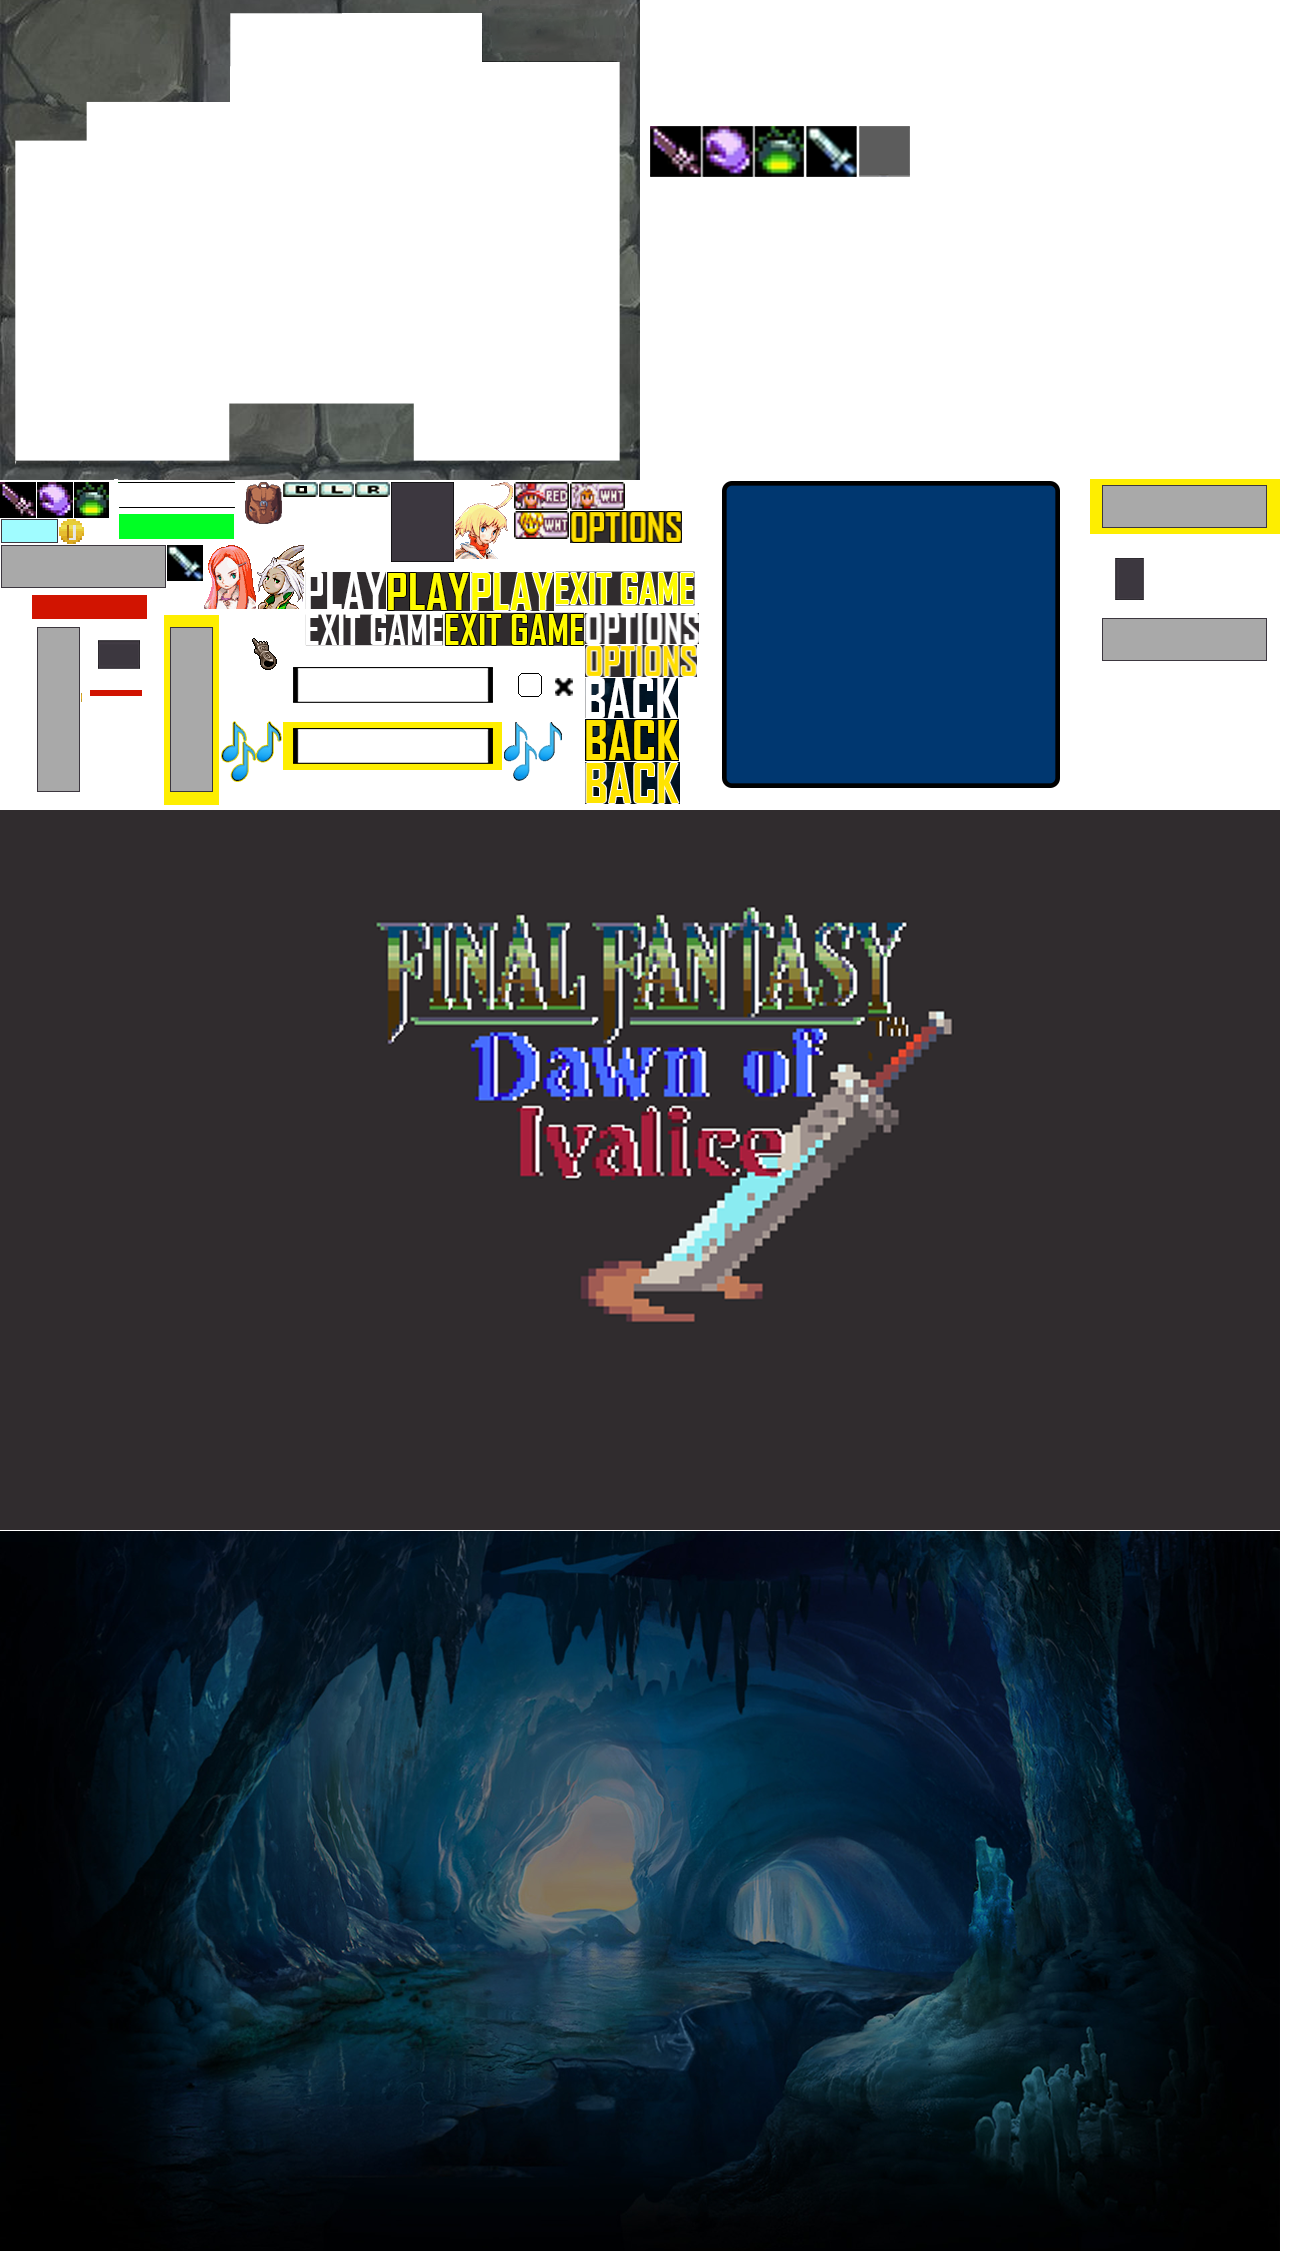
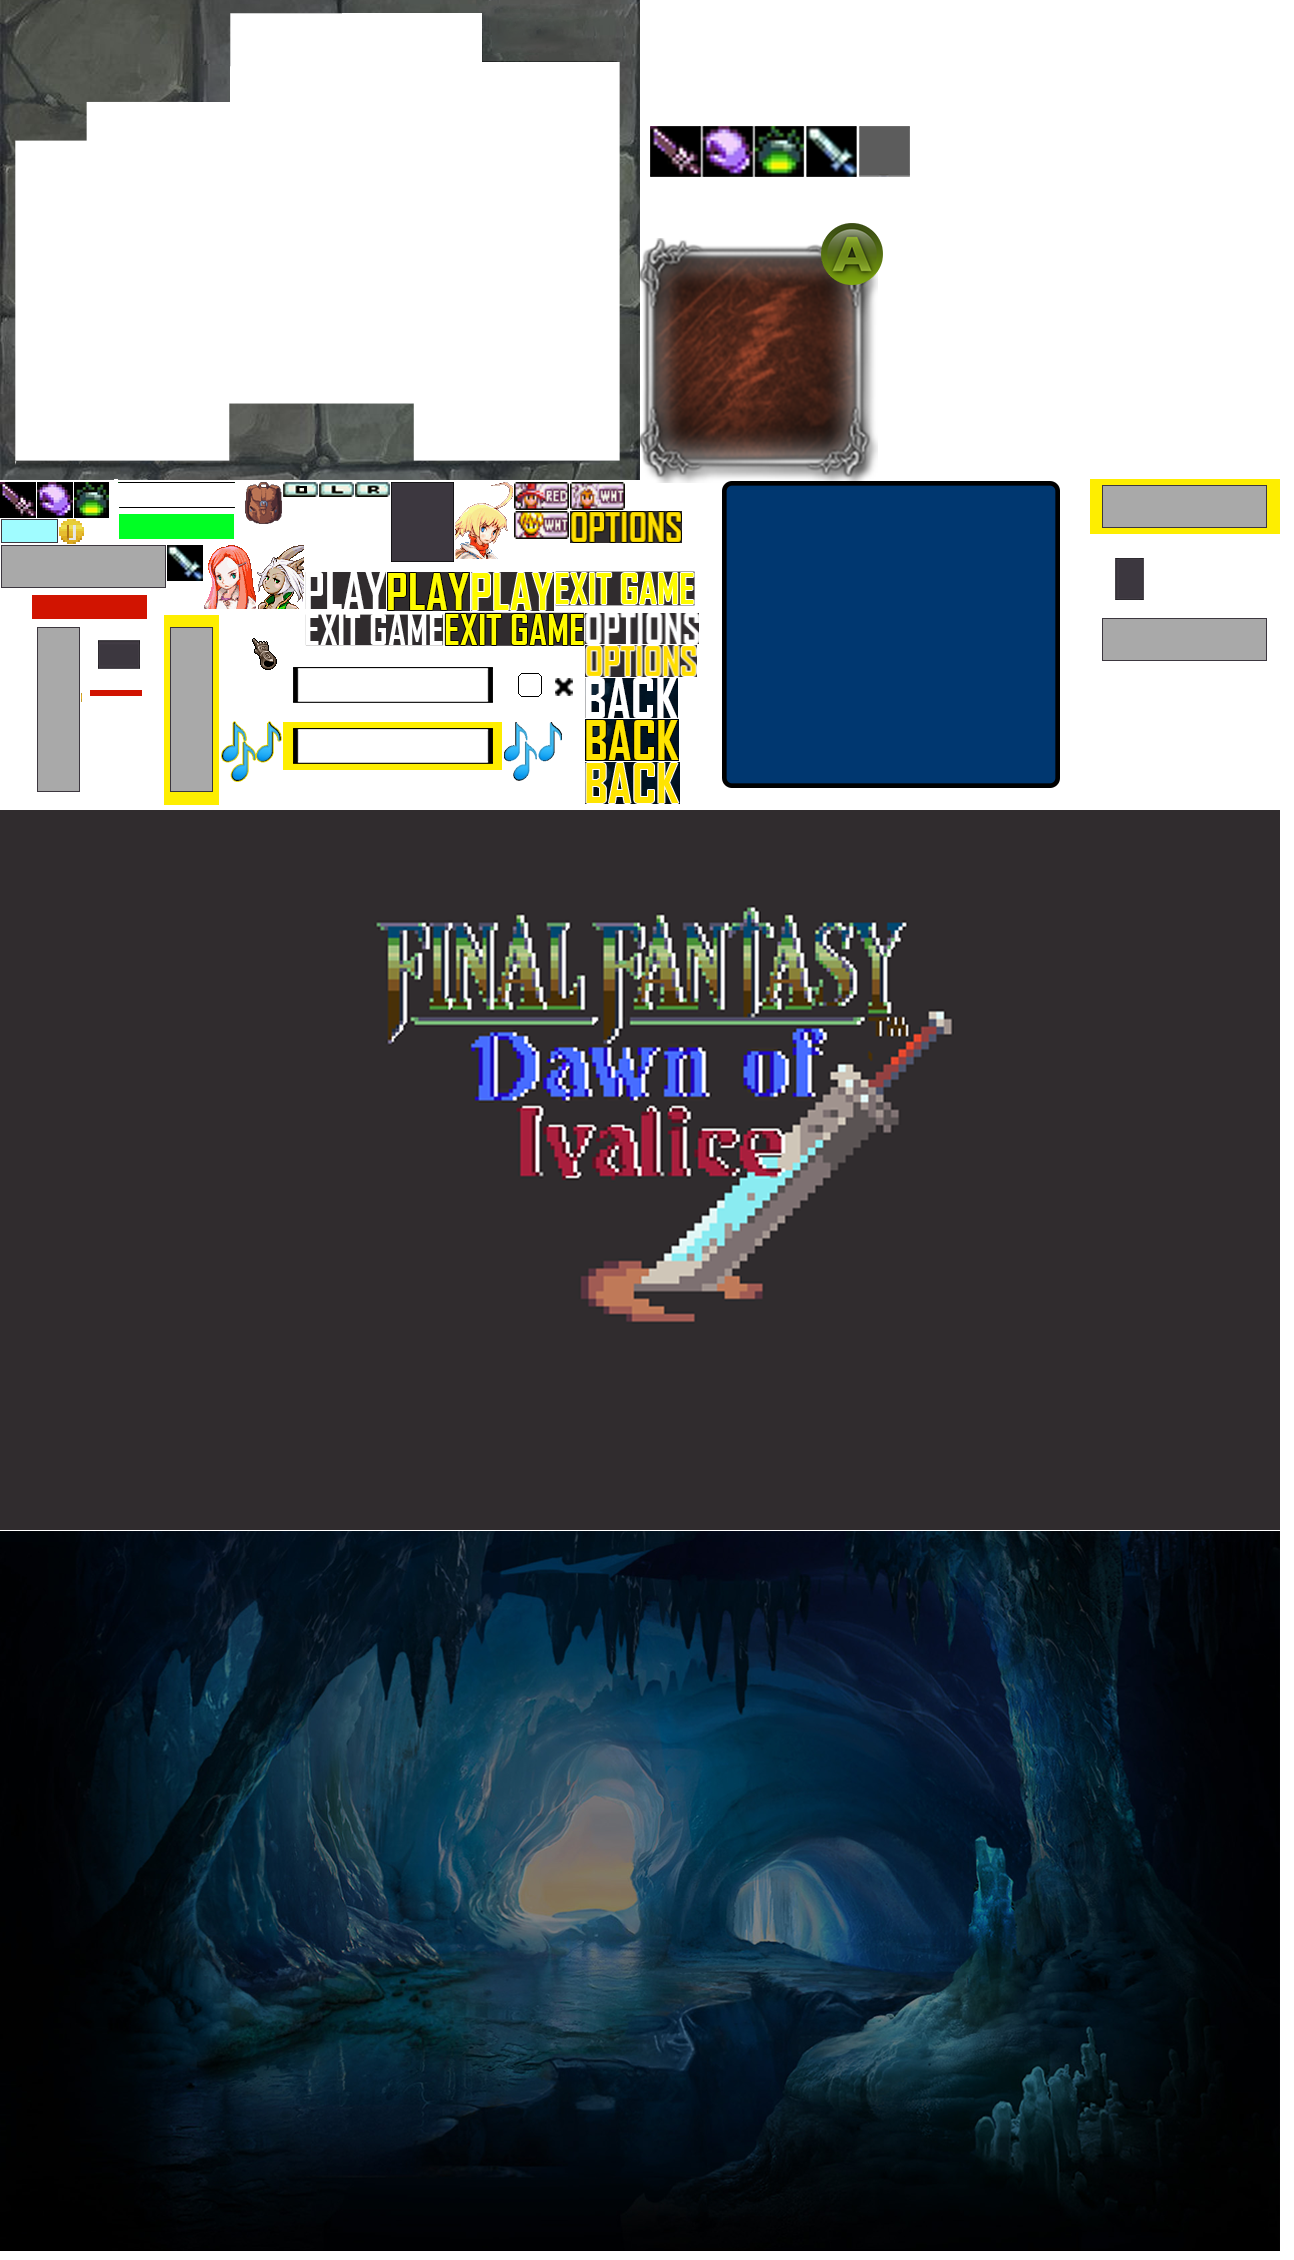
weapon description ready to be created

Changed region(s): [[0.4946, 0.0929, 0.6801, 0.2168]]

diff --git a/Motor2D/j1Gui.cpp b/Motor2D/j1Gui.cpp
@@ -600,7 +600,7 @@ UiItem_CooldownClock * j1Gui::AddClock(iPoint position, SDL_Rect* section, std::
 
 
 
-UiItem_Description* j1Gui::AddWDescriptionToWeapon(iPoint position, std::string itemName, const SDL_Rect* panelRect, const SDL_Rect* iconRect, float Value, EquipmentStatType variableType)
+UiItem_Description* j1Gui::AddDescriptionToEquipment(iPoint position, std::string itemName, const SDL_Rect* panelRect, const SDL_Rect* iconRect, float Value, EquipmentStatType variableType)
 {
 
 	UiItem* newUIItem = nullptr;
@@ -614,11 +614,11 @@ UiItem_Description* j1Gui::AddWDescriptionToWeapon(iPoint position, std::string 
 
 }
 
-UiItem_Description* j1Gui::AddDescriptionToEquipment(iPoint position, std::string itemName, const SDL_Rect* panelRect, const SDL_Rect* iconRect, float Attack, float AbilityPower) {
+UiItem_Description* j1Gui::AddDescriptionToWeapon(iPoint position, std::string itemName, const SDL_Rect* panelRect, const SDL_Rect* iconRect, float Attack, float resistance) {
 	
 	UiItem* newUIItem = nullptr;
 
-	newUIItem = new UiItem_Description(position, itemName, panelRect, iconRect, Attack, AbilityPower);
+	newUIItem = new UiItem_Description(position, itemName, panelRect, iconRect, Attack, resistance);
 
 	ListItemUI.push_back(newUIItem);
 

diff --git a/Motor2D/EquipableLoot.cpp b/Motor2D/EquipableLoot.cpp
@@ -1,12 +1,44 @@
 #include "EquipableLoot.h"
 #include "j1Entity.h"
 #include "j1LootManager.h"
-
+#include "j1Render.h"
 
 
 Equipable::Equipable(int posX, int posY) : LootEntity(LOOT_TYPE::EQUIPABLE, posX, posY)
 {
 	SetEquipable();
+
+	std::vector<Buff*>::iterator stat = this->stats.begin(); 
+
+	float attack, resistance; 
+
+	for (; stat != this->stats.end(); ++stat)
+	{
+
+		if ((*stat)->GetRol() == OBJECT_ROL::ATTACK_ROL)
+		{
+			attack = (*stat)->GetValue(); 
+		}
+		else if ((*stat)->GetRol() == OBJECT_ROL::DEFENCE_ROL)
+		{
+			resistance = (*stat)->GetValue();
+		}
+
+
+	}
+	/*if (this->equipableType == EQUIPABLE_TYPE::SWORD || this->equipableType == EQUIPABLE_TYPE::BOW || this->equipableType == EQUIPABLE_TYPE::ROD)
+	{
+		this->MyDescription = App->gui->AddDescriptionToWeapon(App->render->WorldToScreen(posX, posY), this->lootname, App->scene->lootPanelRect, &this->loot_rect, attack, resistance);
+	}
+	else
+	{
+		// TODO for vests, etc 
+	}*/
+	
+
+	
+
+	
 }
 
 

diff --git a/Motor2D/j1Gui.h b/Motor2D/j1Gui.h
@@ -109,9 +109,9 @@ public:
 	UiItem_CooldownClock* AddClock(iPoint position, SDL_Rect* section, std::string type, std::string charName, UiItem*const parent = nullptr);
 
 
-	UiItem_Description* AddWDescriptionToWeapon(iPoint position, std::string itemName, const SDL_Rect* panelRect, const SDL_Rect* iconRect, float Value, EquipmentStatType variableType);
-	UiItem_Description* AddDescriptionToEquipment(iPoint position, std::string itemName, const SDL_Rect* panelRect, const SDL_Rect* iconRect, float Attack, float AbilityPower);
-
+	UiItem_Description* AddDescriptionToEquipment(iPoint position, std::string itemName, const SDL_Rect* panelRect, const SDL_Rect* iconRect, float Value, EquipmentStatType variableType);
+	UiItem_Description* AddDescriptionToWeapon(iPoint position, std::string itemName, const SDL_Rect* panelRect, const SDL_Rect* iconRect, float Attack, float reistance);
+	
 
 	SDL_Texture* GetAtlas();
 	void FadeToScene();

diff --git a/Motor2D/UiItem_Description.h b/Motor2D/UiItem_Description.h
@@ -26,7 +26,7 @@ class UiItem_Description: public UiItem
 
 public:
 	UiItem_Description(iPoint position, std::string itemName, const SDL_Rect* panelRect, const SDL_Rect* iconRect, float Value, EquipmentStatType variableType);   // for equipment
-	UiItem_Description(iPoint position, std::string itemName, const SDL_Rect* panelRect, const SDL_Rect* iconRect, float Attack, float AbilityPower);   // for weapons, right now we will print TWO variables
+	UiItem_Description(iPoint position, std::string itemName, const SDL_Rect* panelRect, const SDL_Rect* iconRect, float Attack, float resistance);   // for weapons, right now we will print TWO variables
 
 //	void Draw(const float& dt);   // do we need this?? I bet we don't 
 
@@ -39,8 +39,8 @@ public:
 
 	bool hide = false; 
 
-private: 
-	iPoint position; 
+
+	// TODO: cooldown and other stats
 
 private:
 

diff --git a/Motor2D/j1Scene.cpp b/Motor2D/j1Scene.cpp
@@ -353,6 +353,13 @@ void j1Scene::LoadUiElement(UiItem*parent, pugi::xml_node node)
 		int isPanel = uiNode.child("flag").attribute("isPanel").as_int();
 		std::string panelName = uiNode.child("flag").attribute("panelName").as_string();
 
+
+		std::string lootFlag = uiNode.child("flag").attribute("value").as_string();
+		if ( lootFlag == "loot")
+		{
+
+			lootPanelRect = &section; 
+		}
 		// PANELS
 
 		if (isPanel != 1)

diff --git a/Motor2D/J1LootManager.cpp b/Motor2D/J1LootManager.cpp
@@ -232,8 +232,13 @@ j1Entity * j1LootManager::CreateLootType(int x, int y)
 				 //weapon type
 				 id = node.attribute("id").as_int();
 
+				
+
 				 if (id == randID)
 				 {
+					 // item name
+                     lootEntity->lootname = node.attribute("name").as_string();
+
 					 switch (GetRandomValue(1, 12))
 					 {
 					 case 1:

diff --git a/Motor2D/j1Scene.h b/Motor2D/j1Scene.h
@@ -55,6 +55,7 @@ public:
 	UiItem * settingPanel = nullptr;
 	UiItem * pausePanel = nullptr;
 	UiItem_Label * coins_label = nullptr;
+	SDL_Rect * lootPanelRect = nullptr; 
 	
 	bool debug = false;
 	bool exitGame = false;

diff --git a/Motor2D/LootEntity.h b/Motor2D/LootEntity.h
@@ -6,9 +6,11 @@
 #include "Buff.h"
 #include "EnemyTest.h"
 #include "PlayerEntity.h"
+#include "j1Scene.h"
 
 #include <string>
-#include "UiItem_Description.h"
+#include "j1Gui.h"
+
 
 struct SDL_Texture;
 

diff --git a/Motor2D/EquipableLoot.h b/Motor2D/EquipableLoot.h
@@ -32,7 +32,6 @@ public:
 
 	int id;
 	std::string character;
-	std::string itemName;
 
 	int equipableChance;
 
